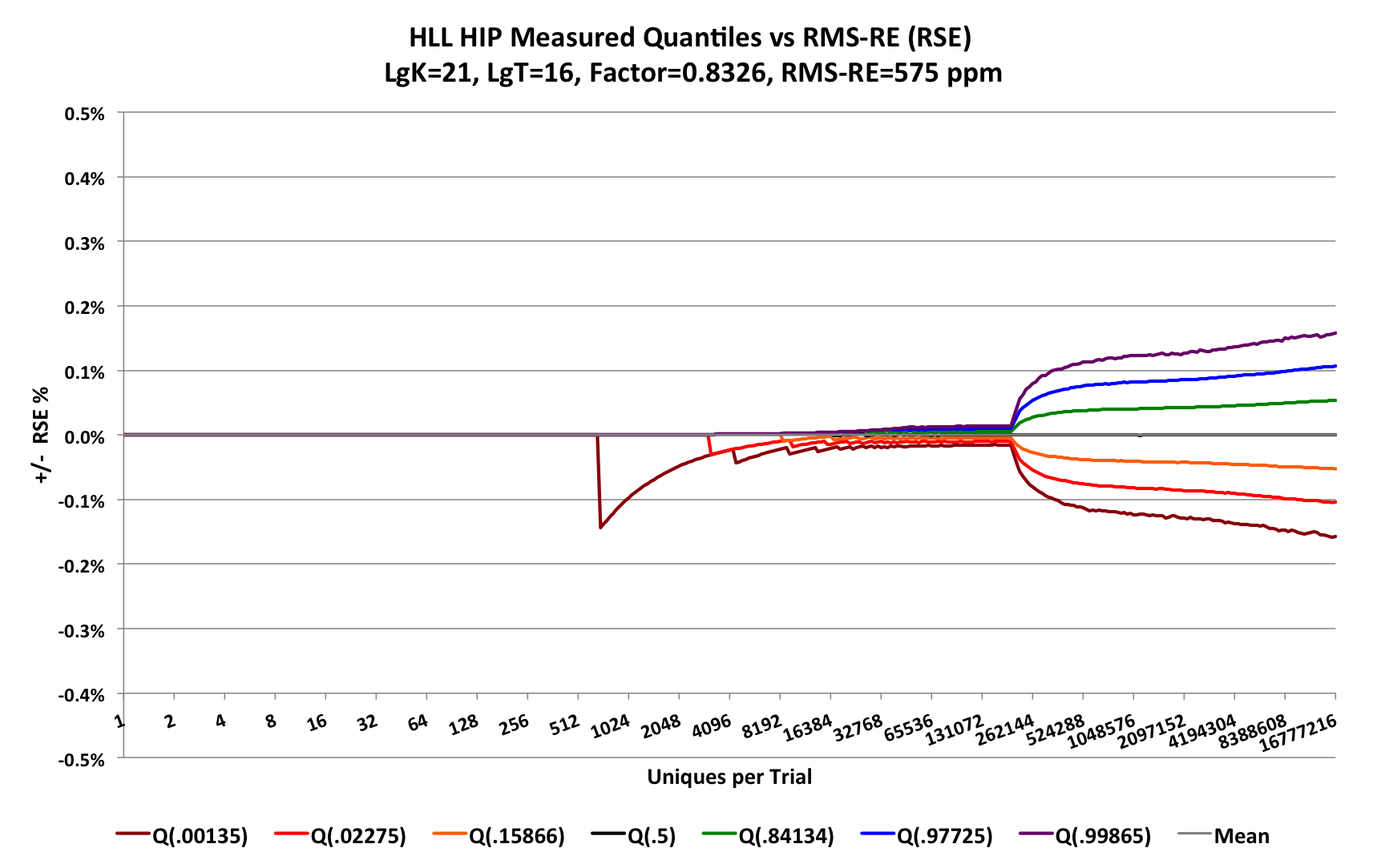
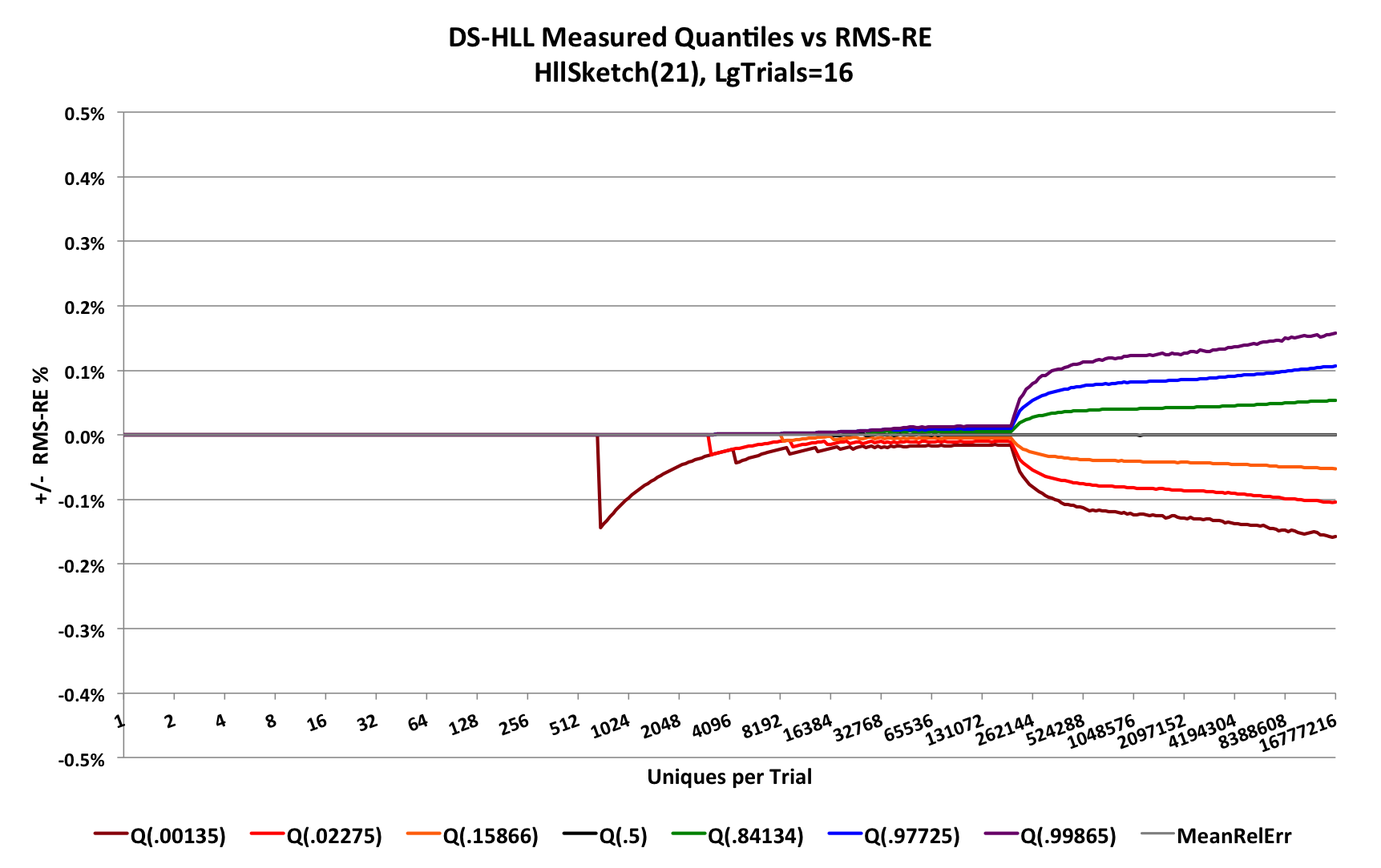
update hll docs

Changed region(s): [[0.2768, 0.0304, 0.7382, 0.1218], [0.0923, 0.9437, 0.9228, 0.9742], [0.0, 0.4262, 0.0308, 0.548]]

diff --git a/docs/HLL/Hll_vs_Hllpp.md b/docs/HLL/Hll_vs_Hllpp.md
@@ -2,49 +2,54 @@
 layout: doc_page
 ---
 
-# DataSketches HLL vs HLL++
-The DataSketches HyperLogLog (DS-HLL) sketch implemented in this library has been highly optimized for speed, accuracy and size. The goal of this paper is to do an objective comparison of the DataSketches HyperLogLog versus the popular Clearspring Technologies [HyperLogLogPlus (HLL++)](https://github.com/addthis/stream-lib/blob/master/src/main/java/com/clearspring/analytics/stream/cardinality/HyperLogLogPlus.java) implementation, which is based on the Google paper [HyperLogLog in Practice: Algorithmic Engineering of a State of The Art Cardinality Estimation Algorithm](https://static.googleusercontent.com/media/research.google.com/en//pubs/archive/40671.pdf).
+# HllSketch vs HyperLogLogPlus
+The DataSketches HyperLogLog *HllSketch*\[1\]\[2\] implemented in this library has been highly optimized for speed, accuracy and size. The goal of this paper is to do an objective comparison of the *HllSketch* versus the popular Clearspring Technologies' *HyperLogLogPlus*\[3\] implementation, which is based on Google's HyperLogLog++ paper[4]. These tests were performed on the *HllSketch* release version 0.10.1, and on the *HyperLogLogPlus* version 2.9.5.
 
-## DataSketches HLL vs. HLL++ Error Behavior
+## *HllSketch* vs. *HyperLogLogPlus* Error Behavior
 
-### High-Level Summary
-The DS-HLL sketch has better error properties than the HLL++ sketch.  This can be easily seen from the following side-by-side comparison:
+### High-Level Error Summary
+The *HllSketch* sketch has superior error properties compared to the *HyperLogLogPlus* sketch.  This can be easily seen from the following side-by-side comparison. The *HllSketch* error curves are on the left. 
+The *HyperLogLogPlus* error curves are on the right.
 
 <img class="doc-img-full" src="{{site.docs_img_dir}}/hll/HllVsHllppAcc.png" alt="/hll/HllVsHllppAcc.png" />
 
 If the image is too small to read, right-click on the image and open it in a separate window.
 
-The colored curves represent different quantile contours of the measured error distribution. The orange and green curves are the contours at the quantiles corresponding to +/- one standard deviation from the mean error, and which define the 68% confidence bounds. The red and blue curves are the contours at +/- 2 standard deviations and define the 95.4% confidence bounds. The brown and purple curves are the contours at +/- 3 standard deviations and define the 99.7% confidence bounds. The mean (gray) and median (black) overlap each other and hug the axis close to zero. 
+These plots are what we call *pitch-fork* plots. The X-axis is the number of unique counts presented to the sketch. The Y-axis is the Root-Mean-Squared of Relative Error (RMS-RE)\[5\] plotted as +/- percent where values above zero represent an overestimate and values below zero represent an underestimate. 
 
-### DataSketches HLL Sketch Error
+The colored curves represent different quantile contours of the empirical error distribution. The orange and green curves are the contours corresponding to +/- one standard deviation from the mean error, and which define the 68% confidence bounds. The red and blue curves are the contours at +/- two standard deviations and define the 95.4% confidence bounds. The brown and purple curves are the contours at +/- three standard deviations and define the 99.7% confidence bounds. The mean (gray) and median (black) overlap each other and hug the axis close to zero. 
 
-Measuring the error properties of these stochastic algorithms is tricky and requires a great deal of thought into the design of the characterization program that measures it. Getting smooth-looking plots requires many tens of thousands of trials, which even with fast CPUs requires a lot of time. 
+### Introduction to Detailed Accuracy Measurements
+Measuring the error properties of these stochastic algorithms is tricky and requires a great deal of thought into the design of the program that measures it. Getting smooth-looking plots requires many tens of thousands of trials, which even with fast CPUs requires a lot of time. 
 
-For accuracy purposes, the DS-HLL sketch is configured with one parameter, *Log_2(K)* which we abreviate as *LgK*. This defines the number of bins of the final HyperLogLog stage, and defines the bounds[1] on the accuracy of the sketch as well as its ultimate size. Thus, specifying a *LgK = 12*, means that the final HyperLogLog stage of the sketch will have *k = 2<sup>12</sup> = 4096* bins. A sketch with *LgK = 21* will ultimately have *k =2,097,152* or 2MiBins, which is a very large sketch.
+For accuracy purposes, the *HllSketch* sketch is configured with one parameter, *Log_2(K)* which we abreviate as *LgK*. This defines the number of bins of the final HyperLogLog-Array (HLL-Array)\[6\] mode, and defines the bounds[7] on the accuracy of the sketch as well as its ultimate size. Thus, specifying a *LgK = 12*, means that the final HyperLogLog mode of the sketch will have *k = 2<sup>12</sup> = 4096* bins. A sketch with *LgK = 21* will ultimately have *k =2,097,152* bins, which is a very large sketch.
 
-Simlarly, the HLL++ sketch has a parameter *p*, which acts the same as *LgK*. 
+Simlarly, the *HyperLogLogPlus* sketch has a parameter *p*, which acts the same as *LgK*.
 
-The whole point of these HyperLogLog sketches is to achieve small error per bit of storage space for all values of *n*, where *n* is the number of uniques presented to the sketch. For this reason it would be wasteful to allocate the full HLL-Array of bins when the sketch has been presented with only a few values. So typical implementations of these sketches have a *warm-up* (also called *sparse*) mode, where the early counts are encoded and cached. When the cached sparse values reach a certain size (depending on the implementation), these values are flushed to a full HLL-Array. The HLL-Array is effectively fixed in size thereafter no matter how large *n* gets. This warm-up (or sparse) mode of operation allows the sketch to maintain a low error / stored-bit ratio for all values of *n*. 
+An important property of a well-implemented HyperLogLog sketch is the error per bit of storage space for all values of *n*, where *n* is the number of uniques presented to the sketch. It would be wasteful to allocate the full HLL-Array of bins when the sketch has been presented with only a few values. As a result, typical implementations of these sketches have a *sparse* mode, where the early counts are encoded and cached. When the number of cached sparse values reaches a certain threshold (depending on the implementation), the sparce representations are flushed to the full HLL-Array. After this transition all new arriving input values are directly offered to the HLL-Array. The HLL-Array is effectively fixed in size thereafter no matter how large *n* gets. Thus, the sparse mode of operation allows the sketch to maintain a low error per stored-bit ratio for all values of *n*. 
 
-Both the DS-HLL and the HLL++ sketches have a warm-up or "sparse" mode. This mode is automatic for the DS-HLL sketch, but the HLL++ sketch requires a second configuration parameter *sp*.  This is a number with similar properties to *p*. It is an exponent of 2 and it determines the error properties of the sparse mode stage.  The documentation states that *sp* can be zero, in which case the sparse mode is disabled, or *p <= sp <= 32*. 
+Both the *HllSketch* and the *HyperLogLogPlus* sketches have a sparse mode. The sparse mode is automatic for the *HllSketch* sketch, but the *HyperLogLogPlus* sketch requires a second configuration parameter *sp*.  This is a number with similar properties to *p*. It is an exponent of 2 and it determines the error properties of the sparse mode.  The documentation states that *sp* can be zero, in which case the sparse mode is disabled, otherwise, *p <= sp <= 32*. 
 This will become more clear when we see some of the plots.
 
-Let's start with our first plot of the accuracy of DS-HLL sketch configured with *LgK = 21*.  We choose this very large sketch so that the behavior of the sparse mode and the final HyperLogLog stage becomes quite clear.
+As stated above, the X-axis is *n*, the true number of uniques presented to the sketch. The range of values on this X-axis is from 1 to 2<sup>24</sup>. There are 16 *trial-points* between each power of 2 along the X-axis (except at the very left end of the axis where there are not 16 distinct integers between the powers of 2). At each trial-point, 2<sup>16</sup> = 65536 trials are executed. The number of trials per trial-point is noted in the chart title as *LgT=16* or.  Each trial feeds a new *HllSketch* sketch configured with either *LgK=21* or *p=21*, which is 2<sup>21</sup> = 2,097,152 bins. This is noted in the chart title as *LgK=21* or *p=21*. The program ensures that no two trials use the same uniques. 
 
-<img class="doc-img-full" src="{{site.docs_img_dir}}/hll/HllK21T16U24.png" alt="HllK21T16U24.png" />
+The Y-axis is a measure of the *Relative Error* of the sketch, where
 
-This is what we call the *pitch-fork plot*. 
+*RE* = Relative Error = *Measured* / *Truth* - 1.0
 
-The X-axis is *n*, the true number of uniques presented to the sketch. The range of values on this X-axis is from 1 to 2<sup>24</sup>. There are 16 *trial-points* between each power of 2 along the X-axis (except at the very left end of the axis where there are not 16 distinct integers between the powers of 2). At each trial-point, 2<sup>16</sup> = 65536 trials are executed. The number of trials per trial-point is noted in the chart title as *LgT=16*.  Each trial feeds a new DS-HLL sketch configured for 2<sup>21</sup> = 2,097,152 bins. This is noted in the chart title as *LgK=21*. No two trials use the same uniques. (To generate this plot required >10<sup>12</sup> updates and took 9 hours to complete.)
+Since these sketches are stochastic, each trial can produce a probabilistic estimate of what the true value of *n* is. If the estimate is larger than *n* it is an overestimate and the resulting relative error, *RE = est/n - 1*, will be positive. If the estimate is an underestimate, the RE will be negative. 
 
-#### DS-HLL Measured Error
-The Y-axis is a measure of the error of the sketch. Since these sketches are stochastic, each trial can produce a different estimate of what the true value of *n* is. If the estimate is larger than *n* it is an overestimate and the resulting relative error, *RE = est/n - 1*, will be positive. If the estimate is an underestimate, the RE will be negative. 
+It is not practical to plot billions of relative error values on a single chart. What we plot instead are the quantiles at chosen Fractional Ranks (FR) of the error distribution at each trial-point. When the quantiles at the same FR are connected by lines they form the contours of the error distribution. For example, *FR = 0.5*, defines the median of the distribution. In these plots the median is black and mostly hidden behind the mean, which is gray, both of which hug the X-axis close to zero.
 
-It is not practical to plot all 2 billion error values on a single chart. What is plotted instead are the quantiles at chosen Fractional Ranks (FR) of the error distribution at each trial-point. When the quantiles at the same FR are connected by lines they form the contours of the shape of the error distribution.  For example, if *FR = 0.5*, it defines the median of the distribution. In this plot the median is black and hidden behind the mean, which is gray, both of which hug the X-axis at zero.
+At each X-axis trial-point the specified number of trials are executed. For each trial the number of uniques defined by the trial-point are *offered* (or *updated*) to the sketch under test. At the end of each trial the cardinality estimate is retrieved from the sketch and stored. At the end of the set of trails at the trial-point the statistics of the distribution of estimated cardinality values are computed.
 
-Six different FR values have been chosen in addition to the median (0.5).  These values correspond to the FR values of a Standard Normal Distribution at +/- 1, 2, and 3 Standard Deviations from the mean. These FR values can be computed from the CDF of the Normal Distribution as *FR = (1 + erf( s/&radic;2 ))/2*, where *s = standard deviation*.  The translation from +/- *s* to fractional ranks is as follows:
+From the cardinality estimate data of each trial-point, six different FR values have been chosen in addition to the median (0.5). These values correspond to the FR values of a Standard Normal Distribution at +/- 1, 2, and 3 Standard Deviations from the mean. These FR values can be computed from the CDF of the Normal Distribution as 
 
-| Std Dev | Fractional Rank |
+*FR = (1 + erf( s/&radic;2 ))/2*, where *s = standard deviation*.
+
+The translation from +/- *s* to fractional ranks is as follows:
+
+| Std Dev (s) | Fractional Rank (FR) |
 |:-------:|:----------------|
 | +3  | 0.998650102 |
 | +2  | 0.977249868 | 
@@ -54,57 +59,69 @@ Six different FR values have been chosen in addition to the median (0.5).  These
 | -2 | 0.022750132 |
 | -3 | 0.001349898 |
 
-Due to the Central Limit Theorm, with sufficiently large values of *n*, the error distribution will approach the Normal Distribution. The resulting quantile curves using the above FR values allows us to associate the error distribution of the sketch with conventional confidence intervals commonly used in statistics. 
+With sufficiently large values of *n*, the error distribution will approach the Normal Distribution due to the Central Limit Theorm. The resulting quantile curves using the above FR values allows us to associate the error distribution of the sketch with conventional confidence intervals commonly used in statistics. 
 
-For example, the area between the orange and the green curves corresponds to +/- 1 Standard Deviations or (0.841 - .158) = 68.3% confidnece. The area between the red and the blue curves corresponds to +/- 2 Standard Deviations or (0.977 - 0.023) = 95.4% confidence. Similarly, the area between the brown and the purple curves corresponds to +/- 3 Standard Deviations or (0.998 - 0.001) = 99.7% confidence. This implies that out of the 65,536 trials, about 196 (0.3%) of the estimates will be outside the brown and purple curves.
+For example, the area between the orange and the green curves corresponds to +/- 1 Standard Deviations or (0.841 - .158) = 68.3% confidence. The area between the red and the blue curves corresponds to +/- 2 Standard Deviations or (0.977 - 0.023) = 95.4% confidence. Similarly, the area between the brown and the purple curves corresponds to +/- 3 Standard Deviations or (0.998 - 0.001) = 99.7% confidence. This implies that out of 65,536 trials, about 196 (0.3%) of the estimates will be outside the brown and purple curves.
 
-The standard way of measuring the error of cardinality sketches is what we call the *Relative Standard Error* or *RSE*. And specifically, we want to measure the RSE of the Relative Error or *RSE-RE*. This is just computing the standard deviation of the 65536 Relative Error measurements in each trial. The beauty of using the RSE is that for a 95% confidence interval we just multiply the measured RSE of the sketch by two.
+The mathematical theory[8] behind the HyperLogLog sketch predicts a *Relative Standard Error* (RSE) defined as
 
-However, the Standard Deviation is relative to the mean. And if the mean is different from zero due to bias, the RSE would not reflect that and the couputed error would be less than it should be.  Instead of computing the RSE, we compute the *Root Mean Square* of the Relative Error or *RMS-RE*. The RMS is related to the RSE as follows:
+*RSE<sub>HLL</sub> = F / &radic;k*.
+
+From Flajolet's paper and using his estimator, *F = &radic;(3 ln(2) - 1) &asymp; 1.03896*.
+
+When calculating the error from the trial set of estimates we compute the *Root Mean Square* of the *Relative Error* or *RMS-RE*. The RMS is related to the RSE as follows:
 
 *RSE<sup>2</sup> = &sigma;<sup>2</sup> = 1/n &Sigma;(x<sub>i</sub> - &mu;)<sup>2</sup> =  &Sigma;((x<sub>i</sub>)<sup>2</sup>) - &mu;<sup>2</sup>*, where *x<sub>i</sub> = RE<sub>i</sub>*.
 
 *RMS<sup>2</sup> = &Sigma;((x<sub>i</sub>)<sup>2</sup>)*
 
-This means that the RSE can be computed from the RMS via the mean and visa-versa:
+This means that the RSE can be computed from the RMS via the *mean* and visa-versa:
 
 *RMS<sup>2</sup> = RSE<sup>2</sup> + &mu;<sup>2</sup>*
 
 If the mean is indeed zero then *RMS = RSE*.
 
-We will discuss the left-hand part of these curves shortly.
+The reason we use the RMS calculation is that it takes any bias into account, while a RSE calculation would not.
 
-#### DS-HLL Predicted Error
-The predicted error of the sketch comes from the mathematics initially formulated by Philippe Flajolet[2] where he proves that the expected RSE of an HLL sketch, using Flajolet's HLL estimator is asymptotically:
+We chose a very large sketch for these experiments where *LgK = p = 21* so that the behavior of the sparse mode and the final HLL-Array mode can be easily observed.
 
-*RSE<sub>HLL</sub> = F / &radic;k*, where *F &asymp; 1.04*
+This means that from the theory, a sketch of this size using Flajolet's estimator will have an RSE of
 
-Any HLL implementation that relies on the Flajolet HLL estimator will not be able to do better than this. For this large sketch of *k = 2<sup>21</sup>, RSE = 717.4 ppm*.
+*RSE = 1.03896 / &radic;(2<sup>21</sup>) &asymp; .0007174 = 717.4 ppm*
 
-However, the DS-HLL sketch uses a more recent estimator called the *Historical Inverse Probability[3]* or *HIP* estimator, which has a factor *F = 0.8326*.
-So the expected asymptotic *RSE = 575 ppm*, which is a 20% improvement in error. 
+Any HLL sketch implementation that relies on the Flajolet HLL estimator will not be able to do better than this.
+
+### *HllSketch* Sketch Measured Error
+With the discussion of how these plots are generated, the plot of the accuracy of *HllSketch* sketch is as follows:
+
+<img class="doc-img-full" src="{{site.docs_img_dir}}/hll/HllK21T16U24.png" alt="HllK21T16U24.png" />
+
+For the right-hand portion of the plot where the sketch is in HLL-Array mode, instead of the Flajolet estimator, the *HllSketch* uses the newer *Historical Inverse Probability* (HIP)
+estimator[9] where *F = 0.8326* resulting in an RSE = 575 ppm. This represents a 20% improvement in error over the Flajolet estimator. 
 
 The gridlines in this plot are at set to be multiples of the predicted RSE of the sketch.
 Note that each of the curves appears to be approaching their respective gridline.
 The green curve is approaching the first positive gridline, and the orange curve is approaching the first negative gridline, etc.
 These curves will actually asymptote to these gridlines, but we would have to extend the X-axis out to nearly 100 million uniques to see it.
-Because this would have taken weeks to compute, we won't show this effect here, but we will be able to demonstrate this with much smaller sketches later.
+Because this would have taken weeks to compute, we won't show this effect here. It would be more obvious with much smaller sketches.
 
-#### The Measured Error of the DS-HLL Warm-up Region
+(To generate this plot required >10<sup>12</sup> updates and took 9 hours to complete.)
+
+#### The Measured Error of the *HllSketch* Sparse Region
 Starting from the left, the error appears to be zero until the value 693 where the -3 StdDev curve (Q(.00135)) drops suddenly to about 0.14% and then gradually recovers.
 This is a normal phenomenon caused by quantization error as a result of counting discrete events, and can be explained as follows.
 
 If you were to plot the histogram of the 693 values exactly at this point you would observe 691 values of 693 and 2 values of 692. 
 If there were only one value of 692, its FR would be 1/693 = 0.001443 and is below the FR of 0.00135 so the Q(0.00135) = 693 because there is still one value of 693 below the FR of 0.00135.
 As soon as another estimate of 692 appears, the Q(0.00135) suddenly becomes 692, which is one off of the true value of 693. 
-Thus the error measured at this point becomes *692/693 -1 = -0.001443*, which is what is shown on the graph.
+Thus, the error measured at this point becomes *692/693 -1 = -0.001443*, which is what is shown on the graph.
 
 The cause of two estimates being 692 instead of 693, which is an underestimate of one, is due to collisons, which can be explained by the *Birthday Paradox*.
-Even though the input values are sufficiently unique (utilizing a 128 bit hash function) the precision of the warm-up cache for this sketch is a little more than 26 bits.
+Even though the input values are sufficiently unique (utilizing a 128 bit hash function) the precision of the sparse cache for this sketch is a little more than 26 bits.
 With this precision, the Birthday Paradox predicts a collision proportional to the square-root of *2<sup>26</sup> = 2<sup>13</sup> = 8192.
-So there is roughly a 50% chance that 1 out of 8K trials will collide.
+This means that there is roughly a 50% chance that 1 out of 8K trials will collide.
 Out of 65K trials, there are about 8 chances for a single collisions to occur.  In this case 2 such collisons occured.
-This is a perfectly normal occurance for any stochastic process with a finite precision.
+This is a perfectly normal occurance for any stochastic counting process with a finite precision.
 
 Remember that this occured on the quantile contour representing -3 standard deviations from the mean, which would occur less than 99.865% of the time, so it is rare indeed.
 
@@ -116,28 +133,29 @@ To explain what is going on in this region we need to zoom in.
 
 <img class="doc-img-full" src="{{site.docs_img_dir}}/hll/HllK21T16U24_closeup.png" alt="HllK21T16U24_closeup.png" />
 
-For this zoomed in plot each gridline is again multiples of the RMS-RE (or RSE-RE), but here the factor *F = 0.408* due to discoveries of new classes of estimators[4].
+For this zoomed in plot each gridline is again multiples of the RMS-RE (or RSE-RE), but here the factor *F = 0.408* due to discoveries of new classes of estimators[10].
 With the precision of 2<sup>26</sup>, the predicted RSE is *0.408 / 2<sup>13</sup> = 49.8 ppm* or about 50 ppm.
 And as you can see the 7 quantile contours nicely approach their predicted asymptotes.
 
 All of this demonstrates that the sketch is behaving as it should and matches the mathematical predictions.
 
-### The Error Plots for the HLL++ Sketch
-With the above detailed explanation of the behavior of the DS-HLL sketch, let's see how the HLL++ sketch behaves under the same test conditions. Here *LgK = p = 21* and *sp = 25*. 
+### *HyperLogLogPlus* Sketch Measured Error
+Let's see how the *HyperLogLogPlus* sketch behaves under the same test conditions. Here *LgK = p = 21* and *sp = 25*. 
 
-There is one caveat: Because the HLL++ sketch is so slow, I had to reduce the number of trials from 65K to 16K per trial-point and it still took over 20 hours to produce the following graph:
+There is one caveat: Because the *HyperLogLogPlus* sketch is so slow, We had to reduce the number of trials from 65K to 16K per trial-point and it still took over 20 hours to produce the following graph:
 
 <img class="doc-img-full" src="{{site.docs_img_dir}}/hll/HllppK21T14.png" alt="HllppK21T14.png" />
 
-Look closely at the Y-axis scale, for this plot the Y-axis ranges from -0.5% to +0.5%.  Compare the scale for first DS-HLL plot where the Y-axis ranges from -0.1725% to +0.1725%! 
-The gridlines are spaced at an RSE of 717 ppm while the DS-HLL sketch RSE is at 575 ppm. However, something is clearly amiss with the HLL++ internal estimator which causes the estimates to zoom up exponentially to a high peak before finally settling down to the predicted quantile contours.
+Look closely at the Y-axis scale, for this plot the Y-axis ranges from -0.5% to +0.5%.  Compare the scale for the *HllSketch* plot where the Y-axis ranges from -0.1725% to +0.1725%! 
+The gridlines are spaced at an RSE of 717 ppm while the *HllSketch* sketch RSE and gridlines are spaced at 575 ppm. However, something is clearly amiss with the *HyperLogLogPlus* internal estimator which causes the estimates to zoom up exponentially to a high peak before finally settling down to the predicted quantile contours.
 
-The plot below is the close-up of the warm-up region of the HLL++.  The warm-up (or sparse mode) is indeed behaving with a precision of 25 bits.
-Here the predicted *RSE = 0.707 / &radic;2<sup>25</sup> = 122 ppm*, which is 2.2 times larger than that of the DS-HLL sketch at 49.8 ppm.
+The plot below is the close-up of the sparse region of the *HyperLogLogPlus*.  The sparse mode is indeed behaving with a precision of 25 bits, specified by *sp*.
+Here the predicted *RSE = 0.707 / &radic;2<sup>25</sup> = 122 ppm*, which is 2.2 times larger than that of the *HllSketch* sketch at 49.8 ppm. 
+The factor *0.707 = 1/&radic;2 comes from the use of the "bitmap" estimator[10].
 
 <img class="doc-img-full" src="{{site.docs_img_dir}}/hll/HllppK21T14_closeup.png" alt="HllppK21T14_closeup.png" />
 
-The HLL++ documentation claims that *sp* can be set as large as 32.  However any value larger than 25 causes dramatic failure in estimation. 
+The *HyperLogLogPlus* documentation claims that *sp* can be set as large as 32.  However any value larger than 25 causes dramatic failure in estimation. 
 The following demonstrates what happens with a much smaller sketch of *LgK = p = 14* and *sp = 26*.
 
 <img class="doc-img-full" src="{{site.docs_img_dir}}/hll/HllppK14T13SP26.png" alt="HllppK14T13SP26.png" />
@@ -146,29 +164,81 @@ The sketch fails when attempting to transition from sparse mode to normal HLL mo
 The error dives to - 35% when a sketch of this size should have an RSE of 0.8%. 
 The sketch provides no warning to the user that this is happening!
 
-### The Ultimate Measure of Merit: Error for a Given Size
+### A *Measure of Merit*: Error for a Given Size
 As described earlier, *RSE<sub>HLL</sub> = F / &radic;k*. 
-If at every trial-point along the X-axis we multiply the measured RSE by the square-root of the serialized sketch size, we will have a measure of merit of the error efficiency of the sketch. For HLL-type sketches and large *n* this value should be asymptotic to a constant. In HLL mode the space it consumes is constant and the error will be a constant as well. Ideally, as the sketch grows through its warm-up phases the Measure of Merit will never be larger than its asymptotic value for large *n*.
+If at every trial-point along the X-axis we multiply the measured RSE by the square-root of the serialized sketch size, we will have a *Measure of Merit* of the error efficiency of the sketch. For HLL-type sketches and large *n* this value should be asymptotic to a constant. In HLL-Array mode the space the sketch consumes is constant and the error will be a constant as well. Ideally, as the sketch grows as a function of *n*, the Measure of Merit in sparse mode and in HLL-Array mode will never be larger than its asymptotic value for large *n*.
 
-This next plot computes this Measure of Merit for both the DS-HLL sketch and the HLL++ sketch. 
+This next plot computes this Measure of Merit for both the *HllSketch* sketch and the *HyperLogLogPlus* sketch. 
 
 <img class="doc-img-full" src="{{site.docs_img_dir}}/hll/HllVsHllppMerit.png" alt="HllVsHllppMerit.png" />
 
-Observe that the DS-HLL sketch is lower (i.e, better merit score) than the HLL++ sketch except for the region that is roughly from 10% of *k* to about *3k/4*, where the the HLL++ sketch is better.
-This is because the designers of the HLL++ sketch chose to do compression of the sparse data array every time a new value is entered into the sketch, which needs to be decompressed when an estimate is requested. The advantage of compression is that it allows the switch from sparse to normal HLL mode to be deferred to a larger fraction of *k*. But this decision comes with a severe penalty in the speed performance of the sketch. Opting out of using sparse mode will achieve higher speed performance, but at the cost of much poorer error performance at the low end and thus poor Measure of Merit.
+Observe that the *HllSketch* sketch is lower (i.e, better merit score) than the *HyperLogLogPlus* sketch except for the region that is roughly from 10% of *k* to about *3k/4*, where the the *HyperLogLogPlus* sketch is better.
+This is because the designers of the *HyperLogLogPlus* sketch chose to do compression of the sparse data array every time a new value is entered into the sketch, which needs to be decompressed when an estimate is requested. 
 
-Above *3k/4*, the HLL++ sketch is not only considerably worse, but it fails the objective of always being less than the asymptotic value. 
+The advantage of compression is that it allows the switch from sparse to normal HLL-Array mode to be deferred to a larger fraction of *k*. But this decision comes with a severe penalty in the speed performance of the sketch. Opting out of using sparse mode will achieve higher speed performance, but at the cost of very poor Measure of Merit performance for small *n*.
 
-## Speed
+Above *3k/4*, the *HyperLogLogPlus* sketch is not only considerably worse, but it fails the objective of always being less than the asymptotic value. 
 
+## *HllSketch* vs. *HyperLogLogPlus* Update Speed Behavior
+Fortunately, the Update Speed performance is much easier to explain and show.
+
+For these tests, at each trial point the sketch under test is presented with the number of uniques at that trial-point and the total time for the trial is measured, then divided by the number of uniques. This produces a measure of the time required per update.  Also, we use a more moderate sized sketch of *LgK = p = 12* that is more typical of what might be used in practice.  The *HllSketch* has 3 different types (HLL_4, HLL_6, and HLL_8) representing the respective sizes of the HLL-Array bins in bits. The speed behavior of all three of theses types is very similar.
+
+This first plot compares the resulting update speed:
+
+<img class="doc-img-full" src="{{site.docs_img_dir}}/hll/upspeed/HllVsHllpUpdateSpeed.png" alt="HllVsHllpUpdateSpeed.png" />
+
+The top black curve is the update speed performance of the *HyperLogLogPlus* sketch, which asymptotes at about 105 nanoseconds. 
+The lower curves are the update speed performance of the *HllSketch*, of which the HLL_8 and HLL_4 types asymptote to 10.5 nanoseconds. 
+This can be seen from a plot of just the *HllSketch* speed performance curves:
+
+<img class="doc-img-full" src="{{site.docs_img_dir}}/hll/upspeed/HllUpdateSpeed.png" alt="HllUpdateSpeed.png" />
+
+The *HyperLogLogPlus* sketch is 2 full orders-of-magnitude slower than the *HllSketch*.
+
+## *HllSketch* vs. *HyperLogLogPlus* Serialize /Deserialize Speed Behavior
+The serialization and deserialization (ser-de) speed of the *HyperLogLogPlus* sketch is shown in the following plot. 
+Note that the Y-axis scale is 100,000 nanoseconds.
+ 
+<img class="doc-img-full" src="{{site.docs_img_dir}}/hll/serde/HllpSerDeP12SP25T14.png" alt="HllpSerDeP12SP25T14.png" />
+
+This next plot is the ser-de speed of the *HllSketch* in HLL_4 mode. 
+Note that the Y-axis scale is now 10,000 nanoseconds.
+
+<img class="doc-img-full" src="{{site.docs_img_dir}}/hll/serde/Hll4SerDeK12T14.png" alt="Hll4SerDeK12T14.png" />
+
+However, the *HllSketch* provides multiple options for serialization and deserialization. 
+The following ser-de is performed in Updatable form which is much faster (compact = false) and requires a little more space.
+Note that the Y-axis scale is now 1,000 nanoseconds. 
+
+<img class="doc-img-full" src="{{site.docs_img_dir}}/hll/serde/Hll8SerDeK12T16CompactF.png" alt="Hll8SerDeK12T16CompactF.png" />
+
+In addition the *HllSketch* can operate fully *off-heap*. 
+In this mode, there is effectively no serialization, since the sketch can be updated off-heap.
+The "deserialization", when required, is just a wrapper class that just contains a pointer to the off-heap data structure.
+This deserialization is quite fast as shown in this next plot.
+Note that the Y-axis scale is now 100 nanoseconds.
+
+<img class="doc-img-full" src="{{site.docs_img_dir}}/hll/serde/Hll8SerDeK12T16CompactFWrapT.png" alt="Hll8SerDeK12T16CompactFWrapT.png" />
+
+Presenting the various *HllSketch* deserialization modes along with the *HyperLogLogPlus* sketch deserialization produces the following plot.
+
+<img class="doc-img-full" src="{{site.docs_img_dir}}/hll/serde/HllVsHllpSummary.png" alt="HllVsHllpSummary.png" />
+Depending on the chosen configuration, the *HllSketch* can be from one to almost three orders-of-magnitude faster than the *HyperLogLogPlus* sketch.
 
 
 ****
 
-* [1] The word "bounds" is used to define a quantile contour of the empirical error distribution. A symetrical pair of these bounds then can be used to define a confidence interval.
-* [2] Philippe Flajolet, E ́ric Fusy, Olivier Gandouet, and Fre ́de ́ric Meunier. Hyperloglog: the analysis of a near-optimal cardinality estimation algorithm. In *DMTCS Conference on Analysis of Algorithms*, pages 137–156, 2007.
-* [3] Edith Cohen, All-Distances Sketches, Revisited: HIP Estimators for Massive Graphs Analysis, *ACM PODS 2014*.
-* [4] Kevin Lang, Back to the Future: an Even More Nearly Optimal Cardinality Estimation Algorithm. https://arxiv.org/abs/1708.06839
+* [1] [DataSketches HllSketch GitHub](https://github.com/DataSketches/sketches-core/tree/master/src/main/java/com/yahoo/sketches/hll)
+* [2] [DataSketches HllSketch JavaDocs](https://datasketches.github.io/api/core/snapshot/apidocs/com/yahoo/sketches/hll/HllSketch.html)
+* [3] [HyperLogLogPlus GitHub](https://github.com/addthis/stream-lib/blob/master/src/main/java/com/clearspring/analytics/stream/cardinality/HyperLogLogPlus.java)
+* [4] [Google: HyperLogLog in Practice: Algorithmic Engineering of a State of The Art Cardinality Estimation Algorithm](https://static.googleusercontent.com/media/research.google.com/en//pubs/archive/40671.pdf)
+* [5] The Root-Mean-Square of the Relative Error (RMS-RE) is sensitive to bias of the mean if there is any. However, if the bias is zero RMS-RE will produce the same results as the theoretical Relative Standard Error (RSE) of the stochastic process.
+* [6] In this context "HLL-Array" refers to the stochastic process defined by Flajolet[8], where log-2(K) bits of the incoming hash select a bin in an array of size K, and the number of leading zeros plus one of the remaining hash bits define the value stored in the array. Both sketches described in this paper also implement a *sparse* mode process for low-valued counts that is distinct from the HLL-Array process.
+* [7] The word "bounds" is used to define a quantile contour of the empirical error distribution. A symetrical pair of these bounds about the median then can be used to define a confidence interval.
+* [8] Philippe Flajolet, E ́ric Fusy, Olivier Gandouet, and Fre ́de ́ric Meunier. Hyperloglog: the analysis of a near-optimal cardinality estimation algorithm. In *DMTCS Conference on Analysis of Algorithms*, pages 137–156, 2007.
+* [9] Edith Cohen, All-Distances Sketches, Revisited: HIP Estimators for Massive Graphs Analysis, *ACM PODS 2014*.
+* [10] Kevin Lang, Back to the Future: an Even More Nearly Optimal Cardinality Estimation Algorithm. <https://arxiv.org/abs/1708.06839>. References to the "bitmap" estimator can be found in Appendix C.
  
 
 
